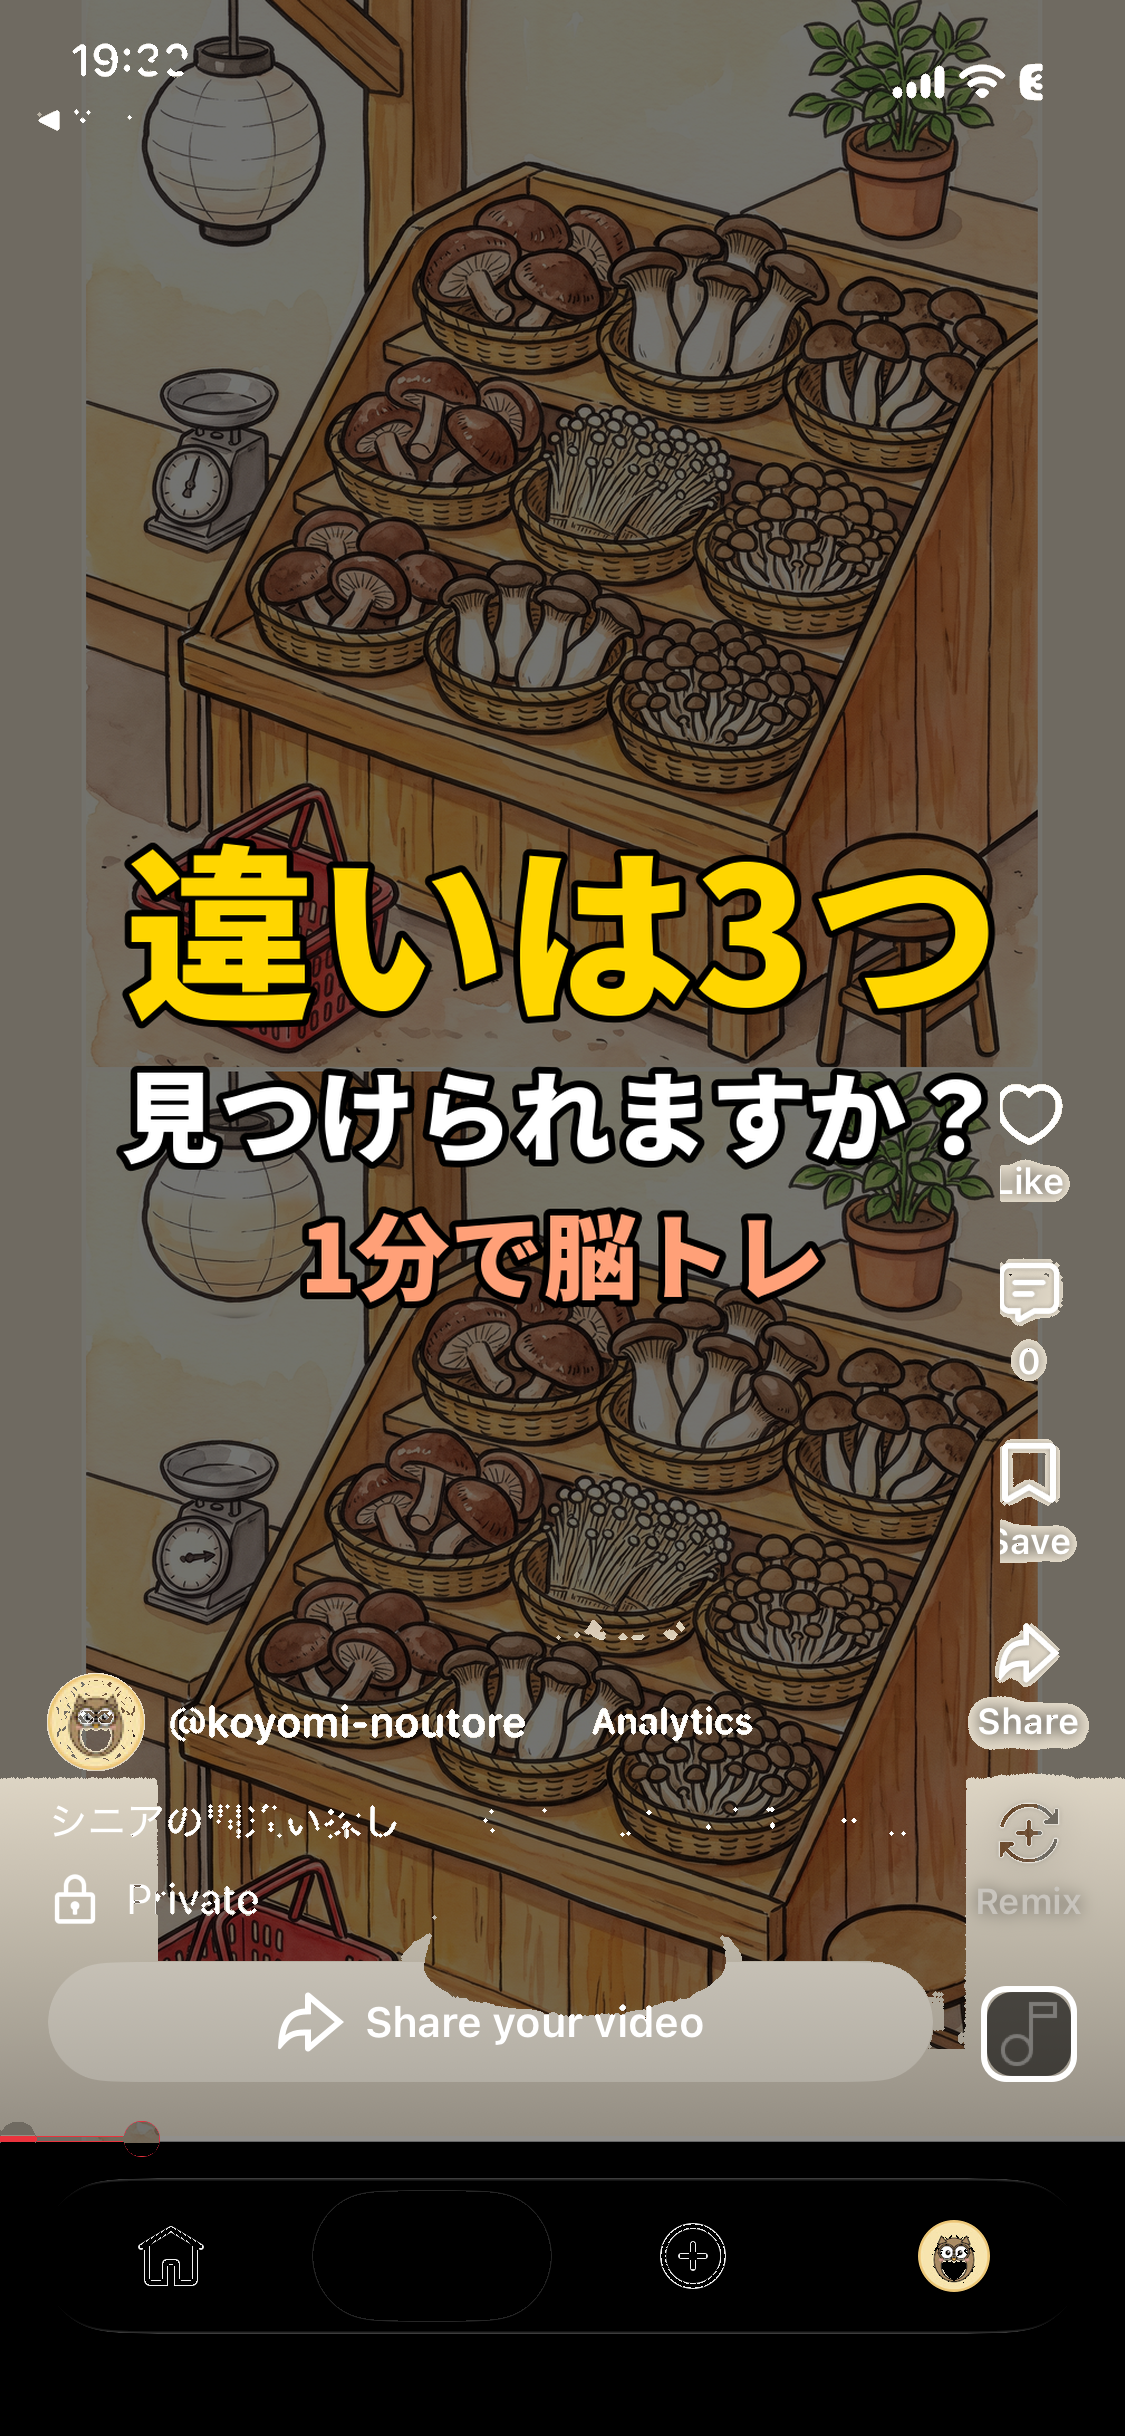
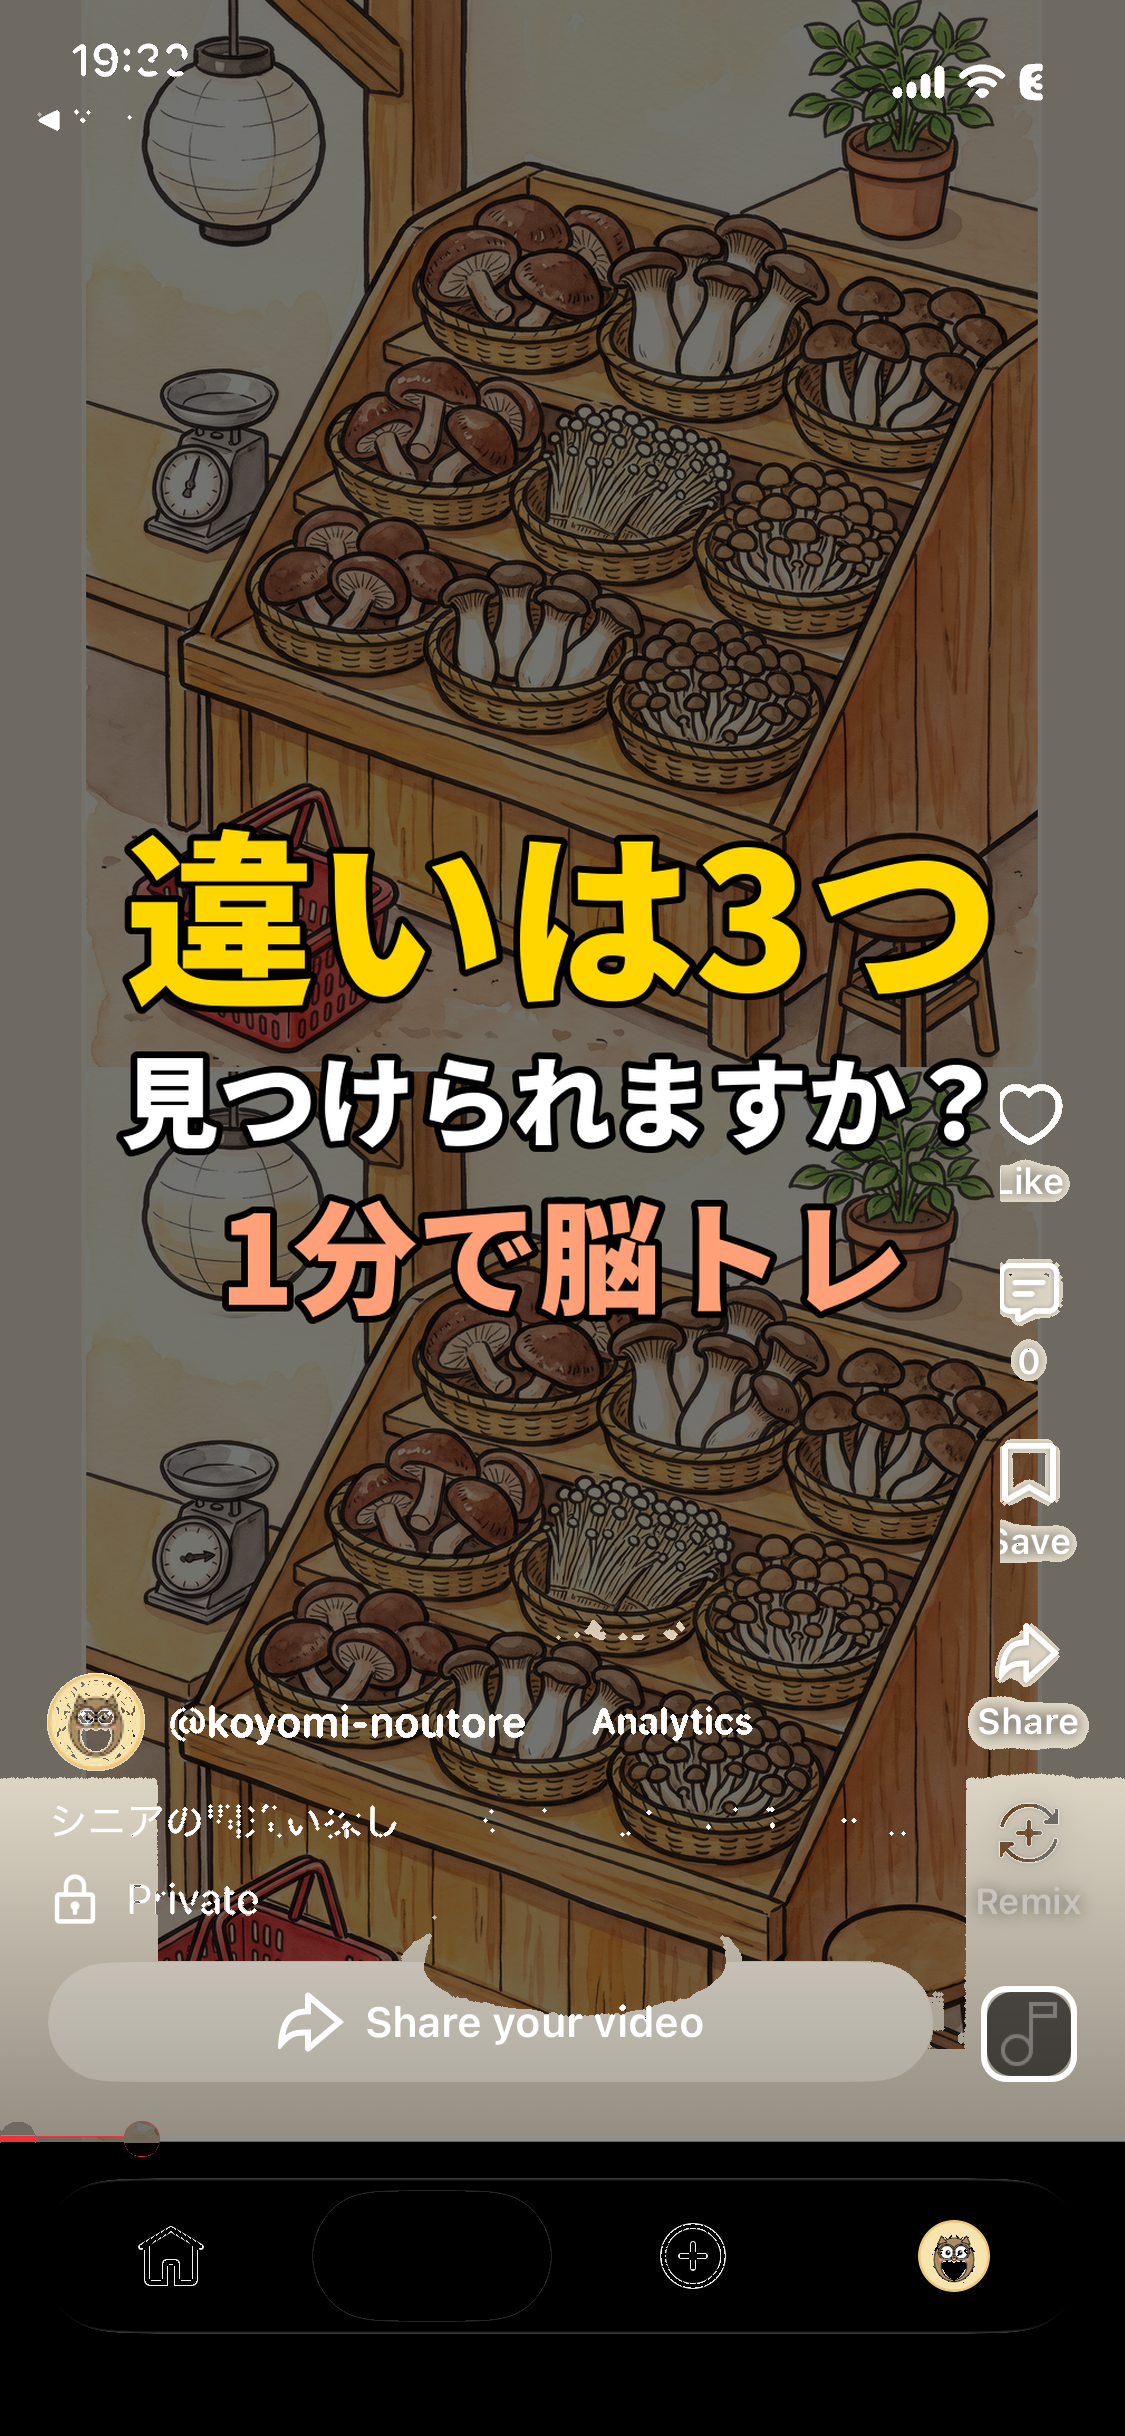
ショート4本を初期の形で作成（「1分で脳トレ」を1.3倍に）
Claude-Session: https://claude.ai/code/session_01RF3BnfrPSRk1U21VXW6Yry

Changed region(s): [[0.0933, 0.312, 0.9022, 0.5616]]

diff --git a/scripts/ep_short.py b/scripts/ep_short.py
@@ -309,7 +309,7 @@ def render(t):
     if t < INTRO_VEIL:
         k = 1.0 if t < INTRO_VEIL - 0.5 else max(0.0, (INTRO_VEIL - t) / 0.5)
         im = veil(im, [("違いは3つ", 170, (255, 214, 0)), ("見つけられますか？", 104, (255, 255, 255)),
-                       (c.get("hook", HOOK), 84, (255, 160, 120))], k)
+                       (c.get("hook", HOOK), 110, (255, 160, 120))], k)   # 訴求の一言は1.3倍（2026-11-18 CEO：1.2〜1.5倍に）
     # 最後：暗い幕の上に「続きは長い動画で」「左下をクリック」と、左下を指す矢印
     e0 = CTX["end_at"]
     if t >= e0:
